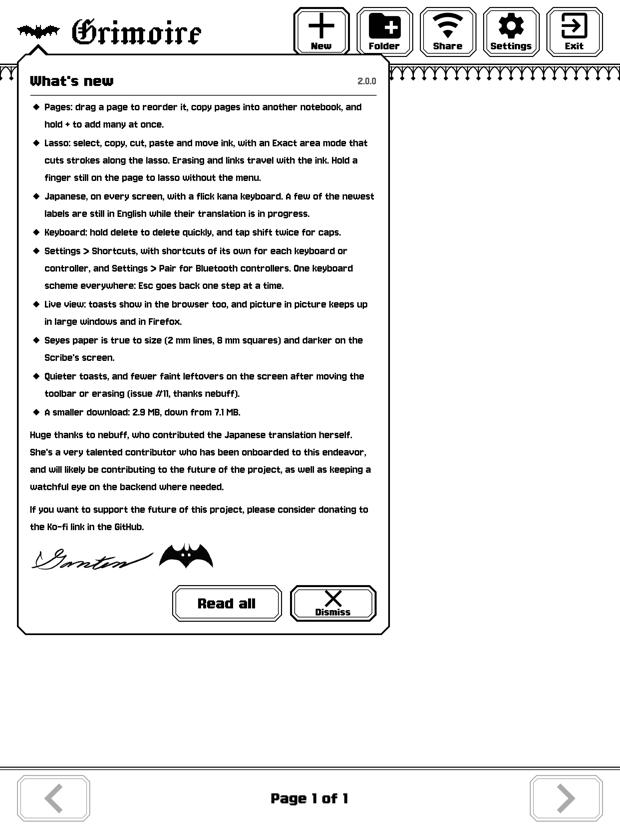
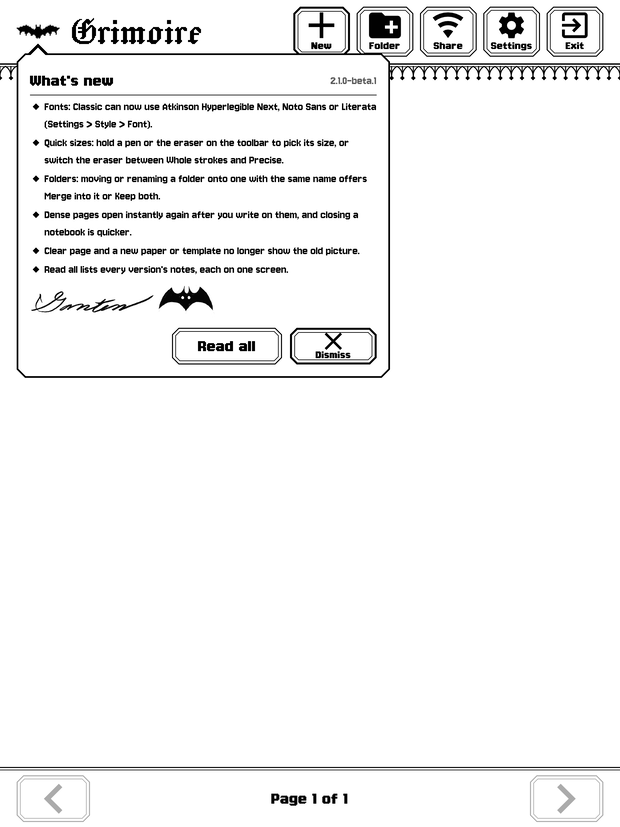
release: prepare 2.1.0-beta.1
VERSION 2.1.0-beta.1; CHANGELOG's 2.1.0 section dated as 2.1.0-beta.1 (2026-11-08); README's pre-release
banner; docs/TESTING.md's 2.1.0-beta.1 section; What's new: docs/whatsnew/2.1.0.md (the 2.0.1 draft) becomes
2.1.0-beta.1.md with this beta's notes (the owner's checks of 2026-11-08 on the Scribe: the wake line out with
the wake change); z_about.qs and z_about_list.qs set to the new notes (6 on the card upright and sideways; the
list's first row this version, marked, dated); docs/screens/whatsnew.png from the new card.

Claude-Session: https://claude.ai/code/session_01Uoe9ZJNyEZYoc4bsjqbSyQ

diff --git a/README.md b/README.md
@@ -36,6 +36,11 @@ Free software under the GPL-3.0. Not affiliated with or endorsed by Amazon.
 The pages above were drawn on a Kindle Scribe in Grimoire; the last picture is Live view, the
 Kindle's screen in a computer's browser as you write.
 
+> **Pre-release 2.1.0-beta.1.** The first beta of 2.1: Grimoire is in daily use on a Kindle Scribe, and
+> every build passes several hundred automated checks, but it is a beta: it autosaves every stroke and
+> keeps damaged files instead of overwriting them, and you should still copy your notebooks off now and
+> then (Library > Share makes that one click).
+
 ## Support Grimoire
 
 Grimoire is free, open source and made by one person, with a lot of care. If it has earned a place

diff --git a/docs/TESTING.md b/docs/TESTING.md
@@ -1899,3 +1899,10 @@ On the Scribe:
     widths (pencil 0.13 to 0.35, fineliner 0.25, highlighter 5.6, eraser 2.86 to 8 mm) and the lit chip is the
     middle or an end one as expected; a pen whose width you had changed is exactly as you left it.
 
+
+## 2.1.0-beta.1
+
+The first 2.1 beta: everything in CHANGELOG's 2.1.0-beta.1 section. Automated: the full gate on the release
+commit with the pinned toolchain. On the owner's Scribe: not yet checked; the sections above list each
+feature's device checks (Read all fitting each note, Classic fonts, the kept drawings and dense-page revisits,
+L0, the merge dialog, quick sizes). The What's new note is a draft the owner vets on the device.

diff --git a/docs/whatsnew/2.1.0-beta.1.md b/docs/whatsnew/2.1.0-beta.1.md
@@ -1,0 +1,10 @@
+# What's new (since 2.0.0)
+
+- Fonts: Classic can now use Atkinson Hyperlegible Next, Noto Sans or Literata (Settings > Style > Font).
+- Quick sizes: hold a pen or the eraser on the toolbar to pick its size, or switch the eraser between Whole strokes and Precise.
+- Folders: moving or renaming a folder onto one with the same name offers Merge into it or Keep both.
+- Dense pages open instantly again after you write on them, and closing a notebook is quicker.
+- Clear page and a new paper or template no longer show the old picture.
+- Read all lists every version's notes, each on one screen.
+
+{signature}

diff --git a/CHANGELOG.md b/CHANGELOG.md
@@ -1,6 +1,6 @@
 # Changelog
 
-## 2.1.0 (unreleased)
+## 2.1.0-beta.1 (2026-11-08)
 
 - A cleared page, or a page given a new paper, template or photo, no longer shows its old picture (2.0.0 and
   2.0.1). A page that keeps its drawing so that it opens at once (a dense page, or one that took a second or more
